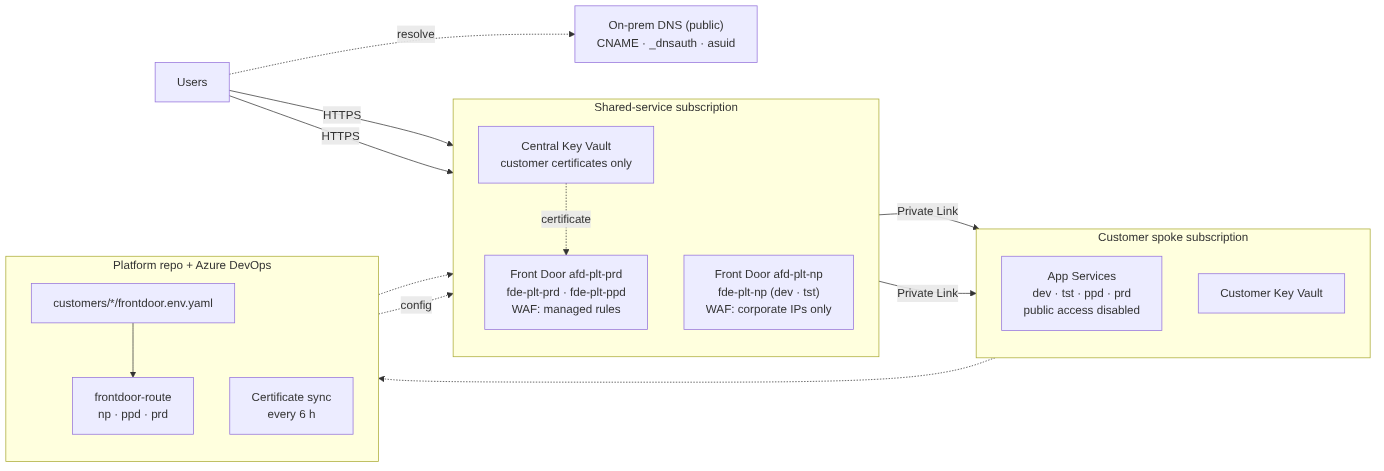
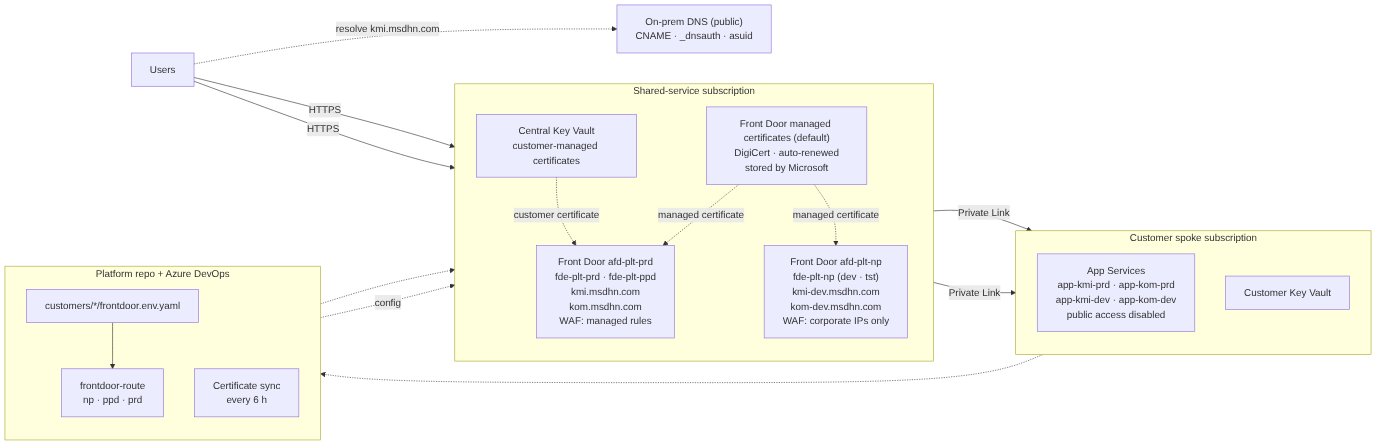
Refactor code structure for improved readability and maintainability

diff --git a/architecture/frontdoor/frontdoor_design.md b/architecture/frontdoor/frontdoor_design.md
@@ -13,45 +13,94 @@
 
 ## Architecture overview
 
+**Terms**
+
+- **Lifecycle:** `rnd`, `npd`, `prd`. Each lifecycle has its own Front Door profile.
+- **Environment:** `rnd`, `dev`, `tst`, `ppd`, `prd`. Lifecycle `rnd` holds environment `rnd`; lifecycle `npd` holds `dev` and `tst`; lifecycle `prd` holds `ppd` and `prd`. Each customer has its own subscription per environment for the backend App Services.
+
+| Lifecycle | Front Door profile | Environments | Backend App Services (customer subscriptions) |
+|---|---|---|---|
+| rnd | `afd-plt-rnd` | rnd | rnd |
+| npd | `afd-plt-npd` | dev, tst | dev, tst |
+| prd | `afd-plt-prd` | ppd, prd | ppd, prd |
+
+### Request flow
+
 ```mermaid
 flowchart LR
     user["Users"]
-    dns["On-prem DNS (public)<br/>CNAME · _dnsauth · asuid"]
+
+    subgraph urls["Example URLs"]
+        urnd["kmi-rnd.msdhn.com<br/>kom-rnd.msdhn.com"]
+        unpd["kmi-dev.msdhn.com<br/>kom-tst.msdhn.com"]
+        uprd["kmi.msdhn.com<br/>kom-ppd.msdhn.com"]
+    end
 
     subgraph shared["Shared-service subscription"]
-        direction TB
-        afdprd["Front Door afd-plt-prd<br/>fde-plt-prd · fde-plt-ppd<br/>WAF: managed rules"]
-        afdnp["Front Door afd-plt-np<br/>fde-plt-np (dev · tst)<br/>WAF: corporate IPs only"]
-        kv["Central Key Vault<br/>customer certificates only"]
+        afdrnd["Front Door afd-plt-rnd<br/>lifecycle rnd · env rnd"]
+        afdnpd["Front Door afd-plt-npd<br/>lifecycle npd · env dev, tst"]
+        afdprd["Front Door afd-plt-prd<br/>lifecycle prd · env ppd, prd"]
     end
 
-    subgraph spoke["Customer spoke subscription"]
-        direction TB
-        app["App Services<br/>dev · tst · ppd · prd<br/>public access disabled"]
-        ckv["Customer Key Vault"]
+    subgraph subrnd["Customer subscription · rnd"]
+        arnd["app-kmi-rnd<br/>app-kom-rnd"]
+    end
+    subgraph subdev["Customer subscription · dev"]
+        adev["app-kmi-dev"]
+    end
+    subgraph subtst["Customer subscription · tst"]
+        atst["app-kom-tst"]
+    end
+    subgraph subppd["Customer subscription · ppd"]
+        appd["app-kom-ppd"]
+    end
+    subgraph subprd["Customer subscription · prd"]
+        aprd["app-kmi-prd"]
     end
 
+    user --> urnd & unpd & uprd
+    urnd -->|CNAME| afdrnd
+    unpd -->|CNAME| afdnpd
+    uprd -->|CNAME| afdprd
+    afdrnd -->|Private Link| arnd
+    afdnpd -->|Private Link| adev
+    afdnpd -->|Private Link| atst
+    afdprd -->|Private Link| appd
+    afdprd -->|Private Link| aprd
+```
+
+### Configuration and certificates
+
+```mermaid
+flowchart LR
     subgraph ops["Platform repo + Azure DevOps"]
-        direction TB
         cfg["customers/*/frontdoor.env.yaml"]
-        route["frontdoor-route<br/>np · ppd · prd"]
+        route["frontdoor-route<br/>one stack per lifecycle"]
         sync["Certificate sync<br/>every 6 h"]
     end
 
-    user -.->|resolve| dns
-    user -->|HTTPS| afdprd
-    user -->|HTTPS| afdnp
-    afdprd -->|Private Link| app
-    afdnp -->|Private Link| app
-    kv -.->|certificate| afdprd
+    subgraph cust["Customer subscription (per environment)"]
+        ckv["Customer Key Vault"]
+    end
+
+    subgraph shared["Shared-service subscription"]
+        kv["Central Key Vault<br/>customer-managed certificates"]
+        afd["Front Door profiles<br/>afd-plt-rnd · afd-plt-npd · afd-plt-prd"]
+    end
+
+    mcert["Front Door managed certificates (default)<br/>DigiCert · auto-renewed · stored by Microsoft"]
+    dns["On-prem DNS (public)<br/>CNAME · _dnsauth · asuid"]
 
     cfg --> route
-    route -.->|config| shared
-    ckv -.-> sync
-    sync -.-> kv
+    route -->|domains · routes · origins| afd
+    ckv -->|read| sync
+    sync -->|import| kv
+    kv -->|customer certificate| afd
+    mcert -->|managed certificate| afd
+    dns -.->|validates domains| afd
 ```
 
-Rendered version: `frontdoor_architecture.png`.
+Rendered versions: `frontdoor_architecture_traffic.png` and `frontdoor_architecture_config.png`.
 
 ---
 
